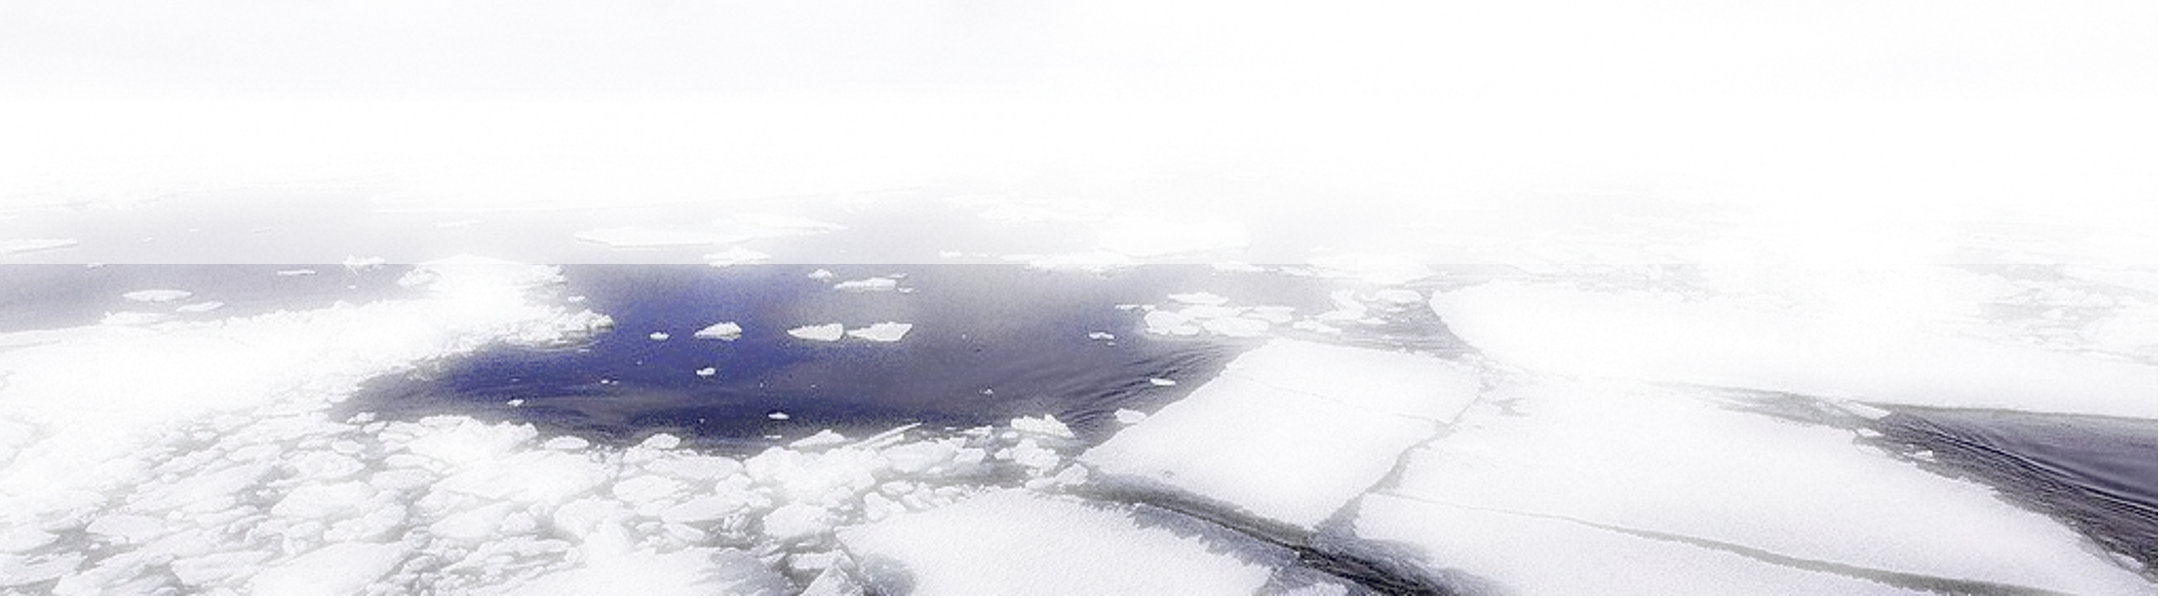
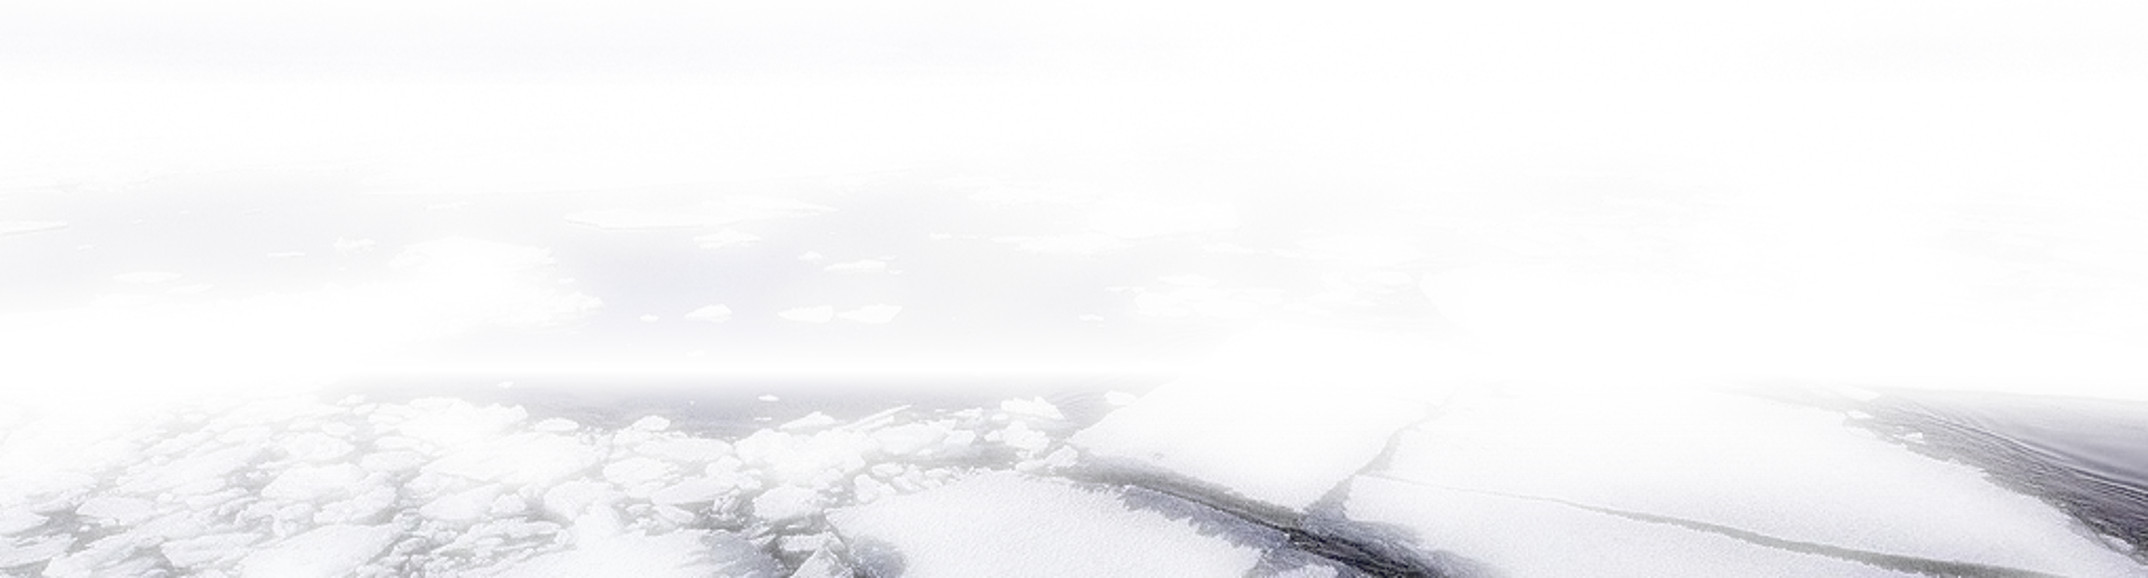
added images

diff --git a/seaice/css/main.css b/seaice/css/main.css
@@ -506,7 +506,7 @@ left: 0;
 
 #title_div {
   /* Specify the background image URL */
-  background-image: url('http://www.cpom.ucl.ac.uk/eocis/seaice/images/sea_ice_bg.jpeg');
+  background-image: url('http://www.cpom.ucl.ac.uk/eocis/seaice/images/sea_ice_bg_2.png');
 
   /* Set the background size to cover the entire div */
   background-size: cover;
